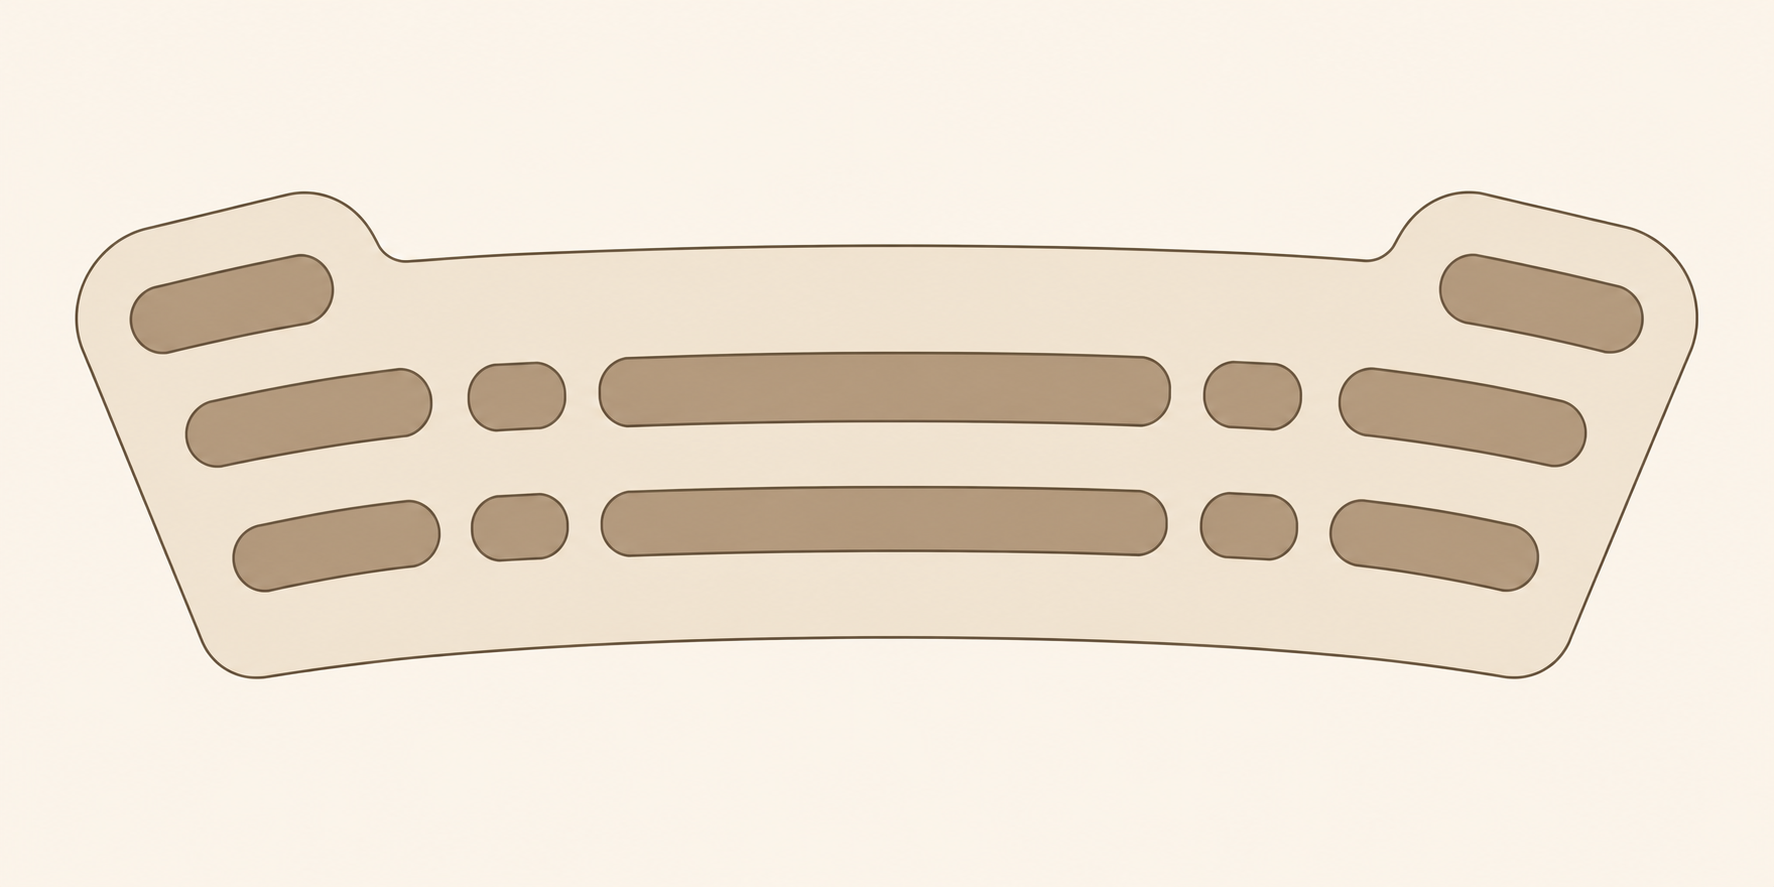
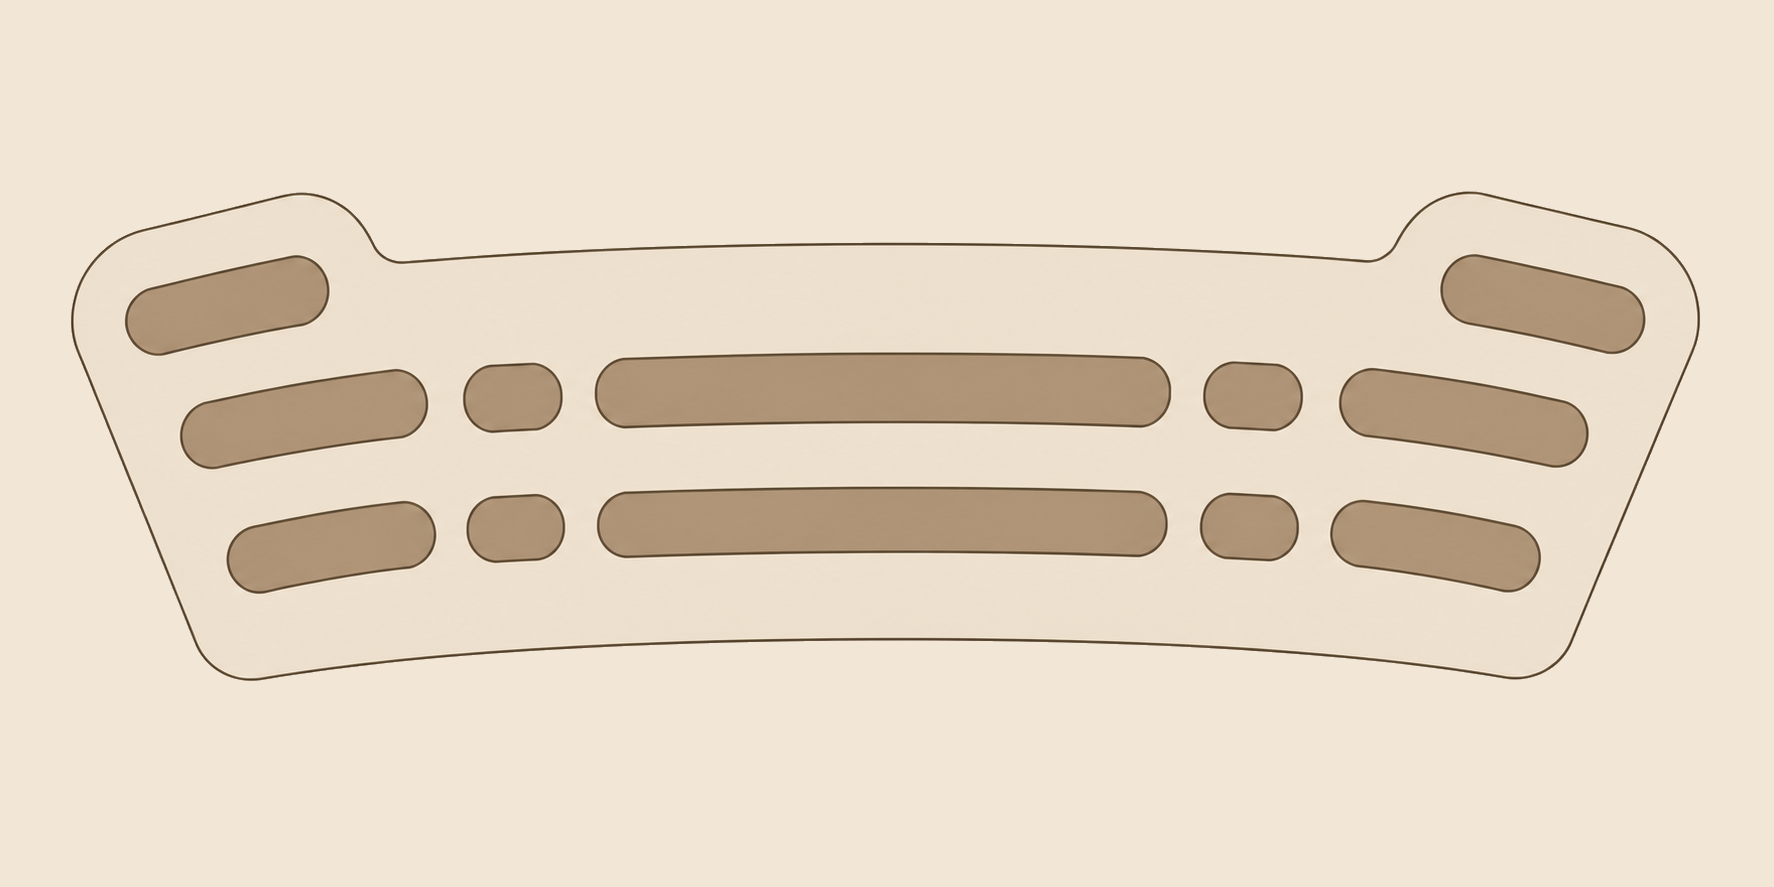
Fix Metolius flat pilot background uniformity

diff --git a/.context/flat-hangboard-illustrations/pilot-review.md b/.context/flat-hangboard-illustrations/pilot-review.md
@@ -1,24 +1,24 @@
-Prompt used for accepted pilot
+Prompt used for accepted pilot after fix round
 
 Use case: stylized-concept
 Asset type: preview-only flat hangboard illustration for a local catalog
 Primary request: Generate a single centered front-facing flat illustration of the reference hangboard as a simplified symbolic product diagram on a consistent landscape canvas.
 Input images: Image 1: reference image for board silhouette and hold layout.
-Scene/backdrop: perfectly plain solid warm parchment background, uniform color with no vignette, glow, gradient, scene, surface, or cast shadow.
+Scene/backdrop: exact solid #F2E7D6 warm parchment background, one single flat paint-bucket fill across the entire canvas from edge to edge, with no vignette, halo, glow, gradient, cast shadow, contact shadow, mottling, paper texture, or localized variation.
 Subject: one hangboard with a clean wide trapezoidal silhouette, rounded top corners, slightly curved lower edge, two distinct side pocket groups with three elongated pockets per side, two small rounded-rect center pockets, and two long horizontal center rails stacked vertically.
 Style/medium: flat editorial product illustration, simplified vector-like bitmap look.
 Composition/framing: centered, front-facing, generous padding on all sides, easy to trace outer silhouette and internal hold groups.
-Lighting/mood: almost no lighting model; use flat fills with only minimal darker warm interior recess shapes to separate depth.
-Color palette: very small warm palette with parchment background, pale clay board fill, muted warm-brown recess color.
+Lighting/mood: flat graphic treatment only; use only minimal darker warm interior recess shapes inside the cavities and no other shading.
+Color palette: exact solid parchment background, pale clay board fill, muted warm-brown recess color.
 Materials/textures: smooth flat fills only, no texture, no wood grain, no pores, no gloss, no realistic shadow, no airbrushed glow.
 Constraints: keep the board recognizable to the reference; preserve the distinct side pocket groups and long center rails; preserve simple cavity separation; no branding, lettering, logos, hands, wall, bolts, mounting hardware, reflections, or decorative objects.
-Avoid: photorealism, gradients that feel glossy, halos, vignette, cast shadows, ambient scene lighting, dramatic perspective, extra pockets, collapsed hold groups, accidental text.
+Avoid: photorealism, gradients that feel glossy, halos, vignette, glow, cast shadows, contact shadows, ambient scene lighting, localized background variation, mottling, paper texture, dramatic perspective, extra pockets, collapsed hold groups, accidental text.
 
 Review checks
 
 1. Recognizable silhouette and orientation: PASS
 2. Two side pocket groups and long center rails remain distinct: PASS
-3. Warm flat palette is consistent: PASS
+3. Warm flat palette is consistent and the background is uniform: PASS
 4. No accidental text, branding, texture, hands, or photorealistic lighting: PASS
 5. Generous padding and contrast support manual tracing: PASS
 
@@ -28,4 +28,16 @@ PASS
 
 Adjustment history
 
-The first generated pilot preserved the geometry but introduced a soft ambient glow. I tightened the prompt once to require a plain background and flatter recess shading, then accepted the regenerated pilot saved at `docs/hangboard-generative-catalog/flat-illustrations/metolius-project-flat.png`.
+Initial generation preserved the geometry but introduced visible warm background variation.
+
+Fix round applied:
+
+- tightened the prompt to require an exact solid `#F2E7D6` background with no halo, vignette, glow, gradient, cast shadow, mottling, paper texture, or localized variation;
+- regenerated the pilot from the existing flat pilot plus the original board render to preserve the silhouette and cavity layout;
+- flattened the edge-connected background in the regenerated pilot to one exact parchment color so the review target matched the prompt requirement without changing the board silhouette or cavity shapes.
+
+Focused verification for fix round:
+
+- visually re-inspected the saved pilot after the fix;
+- sampled background pixels at top, side, center-above-board, and lower-background positions;
+- confirmed all sampled background points decode to the same RGB value: `242,231,214`.

diff --git a/.superpowers/sdd/2026-08-09-flat-hangboard-illustrations/task-1-report.md b/.superpowers/sdd/2026-08-09-flat-hangboard-illustrations/task-1-report.md
@@ -55,4 +55,19 @@ Files intentionally not changed
 
 Notes / concerns
 
-- The accepted pilot still has very subtle warm background variation rather than a mathematically uniform fill, but it stays within the flat warm-palette intent and passed the traceability checks.
+- Superseded by fix round below.
+
+Fix round after task review
+
+- Review feedback required a perfectly uniform solid warm parchment background with no halo, vignette, glow, gradient, cast shadow, or localized variation.
+- I regenerated `docs/hangboard-generative-catalog/flat-illustrations/metolius-project-flat.png` with a stricter prompt that preserved the board silhouette and flat cavity shapes while requiring an exact solid `#F2E7D6` background.
+- The model continued to introduce visible background variation, so I applied a narrow local cleanup to the regenerated pilot only: edge-connected background pixels were flattened to the exact parchment color while leaving the board silhouette and cavity shapes intact.
+
+Focused verification for fix round
+
+- Re-opened the saved pilot image locally after the regeneration and cleanup.
+- Confirmed the board silhouette, side pocket groups, center pockets, and stacked long center rails remained intact.
+- Sampled multiple background points at the top edge, side edges, center above the board, and lower background.
+- Verified every sampled background point decodes to the same RGB value: `242,231,214`.
+- Confirmed the source file `docs/hangboard-generative-catalog/metolius-project.png` was not modified.
+- Confirmed the task report, pilot review note, and pilot PNG are the only artifacts intended for the fix-round commit.
